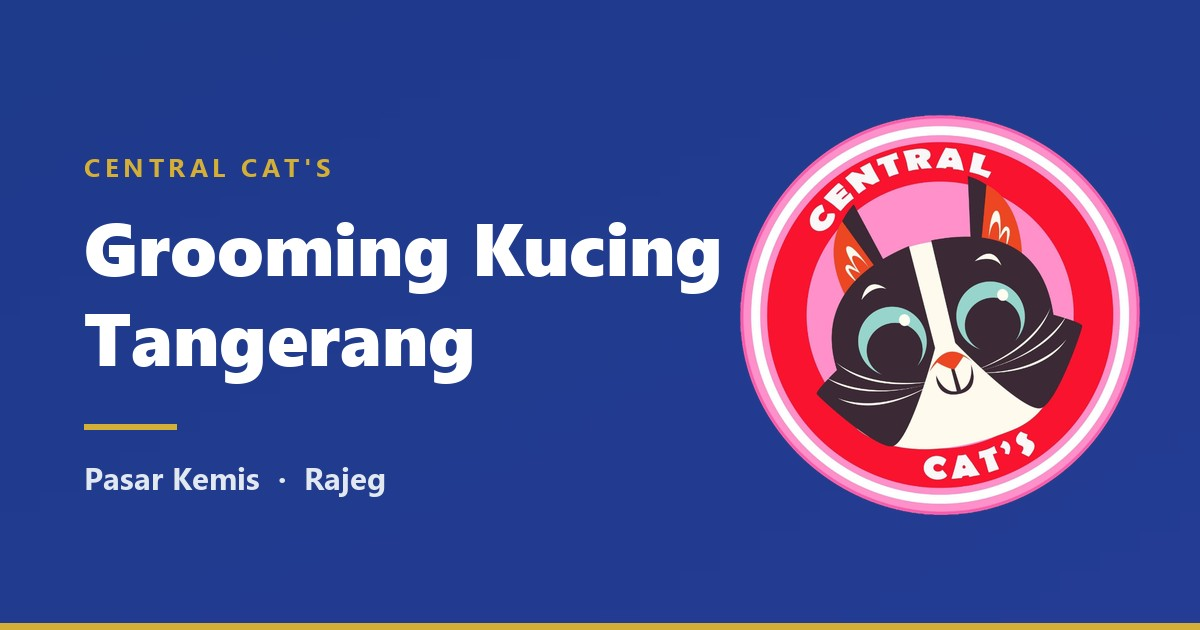
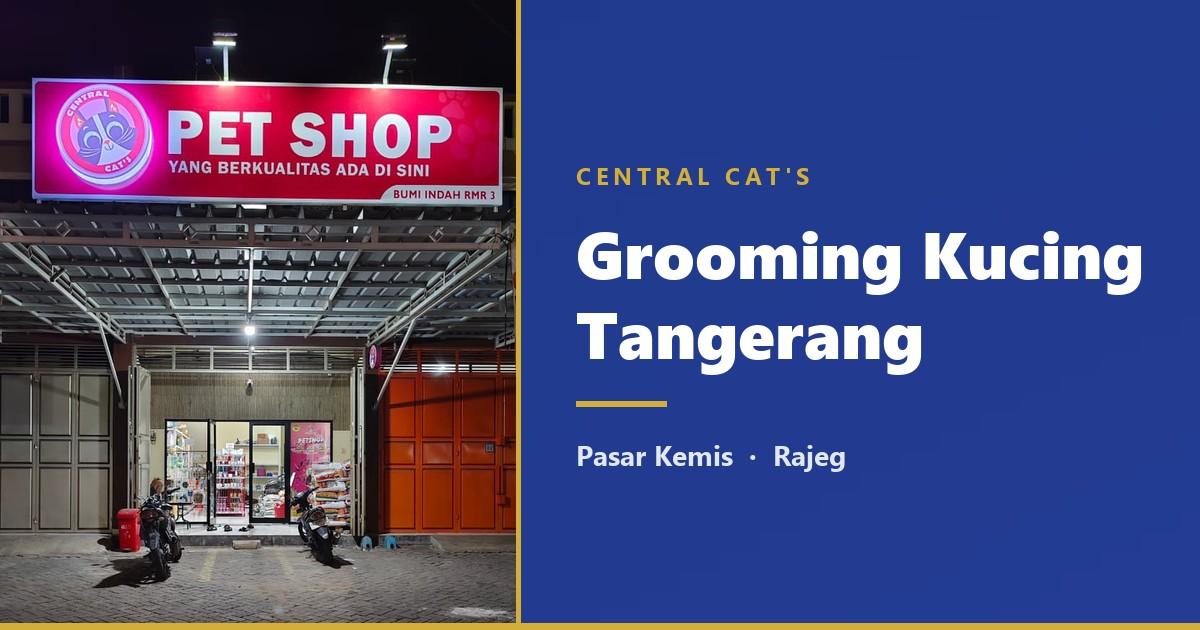
feat(seo): kartu share pakai foto storefront + generator yang bisa diulang
Pilihan user: pakai foto malam storefront Bumi Indah apa adanya dulu.
Foto siang lanskap juga dicoba dan ditolak — foto malam dinilai lebih
menarik (papan nama menyala, kontras kuat). User akan update fotonya
sendiri nanti.

tools/og-card.py — generator kartu, tiga tata letak, dipilih otomatis dari
rasio foto:
  split   foto potret di panel kiri + teks di panel navy kanan  <- dipakai
  penuh   foto lanskap mengisi kanvas + scrim gelap + teks
  grafis  badge lingkaran + navy, tanpa foto

Sebelumnya resep kartu hanya ada di scratchpad sesi yang akan hilang.
Sekarang satu perintah dari repo, sumber fotonya pun sudah di repo.

Tiga hal yang ditemukan sambil membuatnya, semuanya dikomentari di skrip:
- Foto potret TIDAK BISA memenuhi kanvas lanskap: dari 720x1280 hanya slice
  378 px yang terlihat dan harus di-upscale 1,67x. Itu alasan tata letak
  split ada.
- cover_crop harus menjaga rasio. Versi pertama me-resize langsung ke ukuran
  panel sehingga foto lanskap gepeng.
- Potongan vertikal dibias ke ATAS (--anchor 0). Papan nama toko ada di
  atas; memotong dari tengah memangkasnya.
- Scrim tata letak penuh dilebarkan 740->980 px: pada 740, kata kedua judul
  jatuh di kaca pintu terang, latar 98/255. Sekarang 75/255.

assets/logo/badge-512.webp — badge diekstrak dari logo 1500x1500 milik user
lalu diperkecil. WebP 49 KB, bukan PNG 247 KB. Membuat tata letak grafis
bisa dibangun ulang tanpa berkas 8,6 MB di Downloads.
[…]

diff --git a/index.html b/index.html
@@ -34,7 +34,7 @@
 <meta property="og:image:type" content="image/jpeg">
 <meta property="og:image:width" content="1200">
 <meta property="og:image:height" content="630">
-<meta property="og:image:alt" content="Central Cat's — Grooming Kucing Tangerang, cabang Pasar Kemis &amp; Rajeg">
+<meta property="og:image:alt" content="Tampak depan toko Central Cat's cabang Bumi Indah, Pasar Kemis — grooming kucing Tangerang">
 <meta name="twitter:card" content="summary_large_image">
 <meta name="twitter:title" content="Central Cat's Petshop & Grooming Tangerang">
 <meta name="twitter:description" content="Petshop dan grooming kucing terpercaya di Tangerang.">

diff --git a/karir.html b/karir.html
@@ -25,7 +25,7 @@
 <meta property="og:image:type" content="image/jpeg">
 <meta property="og:image:width" content="1200">
 <meta property="og:image:height" content="630">
-<meta property="og:image:alt" content="Central Cat's — Grooming Kucing Tangerang, cabang Pasar Kemis &amp; Rajeg">
+<meta property="og:image:alt" content="Tampak depan toko Central Cat's cabang Bumi Indah, Pasar Kemis — grooming kucing Tangerang">
 <meta name="twitter:card" content="summary_large_image">
 <link rel="preload" as="image" href="/assets/logo/logo-horizontal.png">
 <link rel="preconnect" href="https://fonts.googleapis.com">

diff --git a/kerjasama.html b/kerjasama.html
@@ -25,7 +25,7 @@
 <meta property="og:image:type" content="image/jpeg">
 <meta property="og:image:width" content="1200">
 <meta property="og:image:height" content="630">
-<meta property="og:image:alt" content="Central Cat's — Grooming Kucing Tangerang, cabang Pasar Kemis &amp; Rajeg">
+<meta property="og:image:alt" content="Tampak depan toko Central Cat's cabang Bumi Indah, Pasar Kemis — grooming kucing Tangerang">
 <meta name="twitter:card" content="summary_large_image">
 <link rel="preload" as="image" href="/assets/logo/logo-horizontal.png">
 <link rel="preconnect" href="https://fonts.googleapis.com">

diff --git a/syarat.html b/syarat.html
@@ -25,7 +25,7 @@
 <meta property="og:image:type" content="image/jpeg">
 <meta property="og:image:width" content="1200">
 <meta property="og:image:height" content="630">
-<meta property="og:image:alt" content="Central Cat's — Grooming Kucing Tangerang, cabang Pasar Kemis &amp; Rajeg">
+<meta property="og:image:alt" content="Tampak depan toko Central Cat's cabang Bumi Indah, Pasar Kemis — grooming kucing Tangerang">
 <meta name="twitter:card" content="summary_large_image">
 <link rel="preload" as="image" href="/assets/logo/logo-horizontal.png">
 <link rel="preconnect" href="https://fonts.googleapis.com">

diff --git a/toko.html b/toko.html
@@ -25,7 +25,7 @@
 <meta property="og:image:type" content="image/jpeg">
 <meta property="og:image:width" content="1200">
 <meta property="og:image:height" content="630">
-<meta property="og:image:alt" content="Central Cat's — Grooming Kucing Tangerang, cabang Pasar Kemis &amp; Rajeg">
+<meta property="og:image:alt" content="Tampak depan toko Central Cat's cabang Bumi Indah, Pasar Kemis — grooming kucing Tangerang">
 <meta name="twitter:card" content="summary_large_image">
 <link rel="preload" as="image" href="/assets/logo/logo-horizontal.png">
 <link rel="preconnect" href="https://fonts.googleapis.com">

diff --git a/lokasi.html b/lokasi.html
@@ -26,7 +26,7 @@
 <meta property="og:image:type" content="image/jpeg">
 <meta property="og:image:width" content="1200">
 <meta property="og:image:height" content="630">
-<meta property="og:image:alt" content="Central Cat's — Grooming Kucing Tangerang, cabang Pasar Kemis &amp; Rajeg">
+<meta property="og:image:alt" content="Tampak depan toko Central Cat's cabang Bumi Indah, Pasar Kemis — grooming kucing Tangerang">
 <meta name="twitter:card" content="summary_large_image">
 
 <!-- SEO STRUCTURED DATA: LocalBusiness -->

diff --git a/layanan.html b/layanan.html
@@ -36,7 +36,7 @@
 <meta property="og:image:type" content="image/jpeg">
 <meta property="og:image:width" content="1200">
 <meta property="og:image:height" content="630">
-<meta property="og:image:alt" content="Central Cat's — Grooming Kucing Tangerang, cabang Pasar Kemis &amp; Rajeg">
+<meta property="og:image:alt" content="Tampak depan toko Central Cat's cabang Bumi Indah, Pasar Kemis — grooming kucing Tangerang">
 
 <!-- TWITTER -->
 <meta name="twitter:card" content="summary_large_image">

diff --git a/tentang.html b/tentang.html
@@ -36,7 +36,7 @@
 <meta property="og:image:type" content="image/jpeg">
 <meta property="og:image:width" content="1200">
 <meta property="og:image:height" content="630">
-<meta property="og:image:alt" content="Central Cat's — Grooming Kucing Tangerang, cabang Pasar Kemis &amp; Rajeg">
+<meta property="og:image:alt" content="Tampak depan toko Central Cat's cabang Bumi Indah, Pasar Kemis — grooming kucing Tangerang">
 
 <!-- TWITTER -->
 <meta name="twitter:card" content="summary_large_image">

diff --git a/tools/og-card.py b/tools/og-card.py
@@ -1,0 +1,230 @@
+#!/usr/bin/env python3
+"""Pembuat kartu share (og:image) Central Cat's — 1200x630.
+
+Situs ini statis tanpa build step; skrip ini TIDAK dijalankan saat deploy.
+Jalankan manual hanya ketika kartu share perlu dibuat ulang, lalu commit
+hasilnya. Kebutuhan: Pillow (`python -m pip install pillow`).
+
+    python tools/og-card.py                                  # grafis
+    python tools/og-card.py --foto assets/images/toko/x.jpg  # otomatis
+    python tools/og-card.py --foto f.jpg --layout split --anchor 0
+    python tools/og-card.py --judul "Cat Hotel|Tangerang" --out /tmp/coba.jpg
+
+Tiga tata letak:
+  grafis  badge lingkaran di kanan, teks di kiri. Tanpa foto.
+  penuh   foto memenuhi kanvas + scrim gelap di kiri, teks di atasnya.
+          Dipilih otomatis untuk foto LANSKAP (rasio >= 1,5).
+  split   foto di panel kiri, teks di panel navy kanan.
+          Dipilih otomatis untuk foto POTRET — foto potret tidak bisa
+          memenuhi kanvas lanskap tanpa kehilangan hampir seluruh isinya.
+
+SELALU periksa berkas `*-pratinjau-260.png` yang ikut dihasilkan: itu lebar
+preview WhatsApp sungguhan di HP, dan satu-satunya ukuran yang menentukan
+apakah kartunya berhasil. Kartu yang bagus pada 1200 px sering gagal di 260 px.
+
+Catatan: jangan menyunting berkas ini lewat `Get-Content | Set-Content` di
+PowerShell 5.1 — pembacaan default memakai codepage ANSI, sehingga em-dash
+dan karakter non-ASCII lain rusak jadi mojibake.
+"""
+import argparse
+import pathlib
+import sys
+
+try:
+    from PIL import Image, ImageDraw, ImageFont
+except ImportError:
+    sys.exit("Pillow belum terpasang. Jalankan: python -m pip install pillow")
+
+REPO = pathlib.Path(__file__).resolve().parent.parent
+
+W, H = 1200, 630
+NAVY_A, NAVY_B = (30, 58, 138), (36, 60, 148)   # --primary -> gradien hero
+GOLD = (212, 175, 55)                            # --accent
+PUTIH = (255, 255, 255)
+ABU = (226, 232, 240)
+
+BADGE = REPO / "assets/logo/badge-512.webp"
+KELUAR = REPO / "assets/og/share-card.jpg"
+
+# Poppins (font situs) dimuat dari Google Fonts saat runtime, jadi tidak
+# tersedia untuk render gambar. Segoe UI Black bentuknya paling dekat.
+# Kalau Poppins terpasang, path-nya sudah didahulukan di daftar ini.
+FONT_TEBAL = [r"C:\Windows\Fonts\poppins-black.ttf", r"C:\Windows\Fonts\seguibl.ttf"]
+FONT_SEDANG = [r"C:\Windows\Fonts\poppins-semibold.ttf", r"C:\Windows\Fonts\segoeuib.ttf"]
+
+
+def font_ada(kandidat):
+    for p in kandidat:
+        if pathlib.Path(p).exists():
+            return p
+    sys.exit(f"Tidak ada font yang cocok dari: {kandidat}")
+
+
+def gradien(w, h, a=NAVY_A, b=NAVY_B):
+    """Gradien diagonal: dirakit kecil lalu di-resize — mulus dan cepat."""
+    kw, kh = 60, 32
+    kecil = Image.new("RGB", (kw, kh))
+    px = kecil.load()
+    for y in range(kh):
+        for x in range(kw):
+            t = (x / (kw - 1) + y / (kh - 1)) / 2
+            px[x, y] = tuple(round(p + (q - p) * t) for p, q in zip(a, b))
+    return kecil.resize((w, h), Image.BICUBIC)
+
+
+def cover_crop(im, tw, th, anchor_y=0.0):
+    """Potong ke rasio target TANPA distorsi, lalu skalakan.
+
+    Ini yang dulu salah: me-resize langsung ke (tw, th) membuat foto lanskap
+    gepeng saat dipasang di panel potret.
+
+    anchor_y membiaskan potongan vertikal: 0 = dari atas, 0.5 = tengah,
+    1 = dari bawah. Default 0 karena pada foto toko papan nama ada di atas
+    dan bagian bawah biasanya cuma lantai/paving kosong — memotong dari
+    tengah bisa memangkas papan namanya. Hanya berpengaruh kalau sumbernya
+    lebih "tinggi" daripada rasio target.
+    """
+    sa, ta = im.width / im.height, tw / th
+    if sa > ta:
+        w = round(im.height * ta)
+        x = (im.width - w) // 2
+        im = im.crop((x, 0, x + w, im.height))
+    else:
+        h = round(im.width / ta)
+        y = round((im.height - h) * anchor_y)
+        im = im.crop((0, y, im.width, y + h))
+    upscale = tw > im.width
+    return im.resize((tw, th), Image.LANCZOS), upscale
+
+
+def scrim(w, h, lebar_pudar=980, dasar=248, kurva=1.05):
+    """Overlay gelap kiri->kanan supaya teks putih terbaca di atas foto.
+
+    Disetel setelah percobaan: dengan pudar 740 px & kurva 1,35, kata kedua
+    judul ("Kucing") jatuh di atas kaca pintu yang terang dan kontrasnya
+    lemah (latar rata-rata 98/255). Pudar dilebarkan dan kurvanya
+    dilandaikan sampai latar di belakang judul turun ke ~75/255.
+    """
+    ov = Image.new("RGBA", (w, h), (0, 0, 0, 0))
+    d = ImageDraw.Draw(ov)
+    for x in range(w):
+        t = min(1.0, x / lebar_pudar)
+        a = round(dasar * (1 - t) ** kurva)
+        if a:
+            d.line([(x, 0), (x, h)], fill=(13, 26, 64, a))
+    return ov
+
+
+def teks_spasi(d, xy, teks, font, fill, tracking=0):
+    """Letter-spacing manual — Pillow tidak punya tracking."""
+    x, y = xy
+    for ch in teks:
+        d.text((x, y), ch, font=font, fill=fill)
+        x += d.textlength(ch, font=font) + tracking
+
+
+def muat_pas(path, maks, baris, batas):
+    """Turunkan ukuran font sampai baris terpanjang masuk `batas` piksel."""
+    ukur = ImageDraw.Draw(Image.new("RGB", (8, 8)))
+    for size in range(maks, 20, -2):
+        f = ImageFont.truetype(path, size)
+        if max(ukur.textlength(t, font=f) for t in baris) <= batas:
+            return f, size
+    return ImageFont.truetype(path, 22), 22
+
+
+def pilih_layout(args):
+    if not args.foto:
+        return "grafis"
+    if args.layout:
+        return args.layout
+    im = Image.open(args.foto)
+    rasio = im.width / im.height
+    pilih = "penuh" if rasio >= 1.5 else "split"
+    print(f"  foto {im.size} rasio {rasio:.2f} -> tata letak '{pilih}' (otomatis)")
+    return pilih
+
+
+def buat(args):
+    f_tebal, f_sedang = font_ada(FONT_TEBAL), font_ada(FONT_SEDANG)
+    baris = args.judul.split("|")
+    layout = pilih_layout(args)
+
+    if layout == "grafis":
+        kanvas = gradien(W, H)
+        if not BADGE.exists():
+            sys.exit(f"Aset badge hilang: {BADGE}")
+        badge = Image.open(BADGE).convert("RGBA")
+        s = 400 / badge.height
+        badge = badge.resize((round(badge.width * s), 400), Image.LANCZOS)
+        kanvas.paste(badge, (W - 60 - badge.width, (H - badge.height) // 2), badge)
+        X, maks, batas = 84, 76, W - 84 - 400 - 60 - 40
+
+    elif layout == "penuh":
+        foto, up = cover_crop(Image.open(args.foto).convert("RGB"), W, H, args.anchor)
+        if up:
+            print("  ! PERINGATAN: foto di-upscale untuk mengisi 1200x630 — hasilnya "
+                  "buram. Pakai foto lanskap sisi panjang >= 1600 px.")
+        kanvas = Image.alpha_composite(foto.convert("RGBA"), scrim(W, H)).convert("RGB")
+        X, maks, batas = 84, 76, 660
+
+    else:  # split
+        LP = 520
+        panel, up = cover_crop(Image.open(args.foto).convert("RGB"), LP, H, args.anchor)
+        if up:
+            print(f"  ! PERINGATAN: foto di-upscale untuk panel {LP}x{H} — buram.")
+        kanvas = gradien(W, H)
+        kanvas.paste(panel, (0, 0))
+        ImageDraw.Draw(kanvas).rectangle([LP - 4, 0, LP, H], fill=GOLD)
+        X, maks, batas = LP + 56, 70, W - (LP + 56) - 56
+
+    d = ImageDraw.Draw(kanvas)
+    f_judul, sz = muat_pas(f_tebal, maks, baris, batas)
+    f_eye = ImageFont.truetype(f_sedang, 24 if layout == "split" else 26)
+    f_sub = ImageFont.truetype(f_sedang, 28 if layout == "split" else 31)
+    print(f"  font judul: {sz}px (batas {batas}px)")
+
+    lh = round(sz * 1.21)
+    # +34 sebelum garis emas: descender 'g' turun jauh; kalau mepet, garisnya
+    # terbaca seperti underline yang salah.
+    tinggi = 48 + lh * len(baris) + 34 + 5 + 34 + 30
+    y = (H - tinggi) // 2
+
+    teks_spasi(d, (X, y), args.eyebrow, f_eye, GOLD, tracking=4.5)
+    y += 48
+    for b in baris:
+        d.text((X, y), b, font=f_judul, fill=PUTIH)
+        y += lh
+    y += 34
+    d.rectangle([X, y, X + 90, y + 5], fill=GOLD)
+    y += 34
+    d.text((X, y), args.sub, font=f_sub, fill=ABU)
+
+    d.rectangle([0, H - 7, W, H], fill=GOLD)   # meniru border-top footer situs
+
+    out = pathlib.Path(args.out)
+    out.parent.mkdir(parents=True, exist_ok=True)
+    kanvas.save(out, "JPEG", quality=90, optimize=True, progressive=True)
+    kb = out.stat().st_size / 1024
+    print(f"  {out.name}  {W}x{H}  {kb:.1f} KB"
+          f"  {'OK' if kb < 300 else '! >300 KB, preview WhatsApp bisa lambat'}")
+
+    pra = out.with_name(out.stem + "-pratinjau-260.png")
+    kanvas.resize((260, round(260 * H / W)), Image.LANCZOS).save(pra)
+    print(f"  pratinjau 260px: {pra.name}  <- PERIKSA INI sebelum commit")
+
+
+if __name__ == "__main__":
+    p = argparse.ArgumentParser(description=__doc__,
+                                formatter_class=argparse.RawDescriptionHelpFormatter)
+    p.add_argument("--foto", help="path foto; lanskap sisi panjang >= 1600 px paling ideal")
+    p.add_argument("--layout", choices=["grafis", "penuh", "split"],
+                   help="paksa tata letak (default: otomatis dari rasio foto)")
+    p.add_argument("--anchor", type=float, default=0.0,
+                   help="bias potongan vertikal 0=atas .. 1=bawah (default: 0)")
+    p.add_argument("--judul", default="Grooming Kucing|Tangerang",
+                   help="judul; pisahkan baris dengan | (default: %(default)s)")
+    p.add_argument("--eyebrow", default="CENTRAL CAT'S")
+    p.add_argument("--sub", default="Pasar Kemis  ·  Rajeg")
+    p.add_argument("--out", default=str(KELUAR))
+    buat(p.parse_args())
